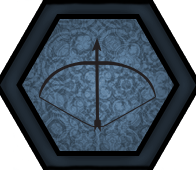
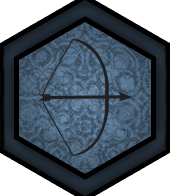
flipped the orientation the hex tiles as we discussed; the display and UI should work for the new orientation, but the game logic needs to be changed

diff --git a/Gaveldor 2/src/game/run/GameUI.java b/Gaveldor 2/src/game/run/GameUI.java
@@ -46,27 +46,27 @@ public class GameUI {
     }
     
     public static Point getTileCoords(int pixelX, int pixelY){
-        double x = (1.0 * pixelX + (Constants.TILE_WIDTH - Constants.TILE_WIDTH_SPACING)) / Constants.TILE_WIDTH_SPACING;
-        double y = 1.0 * pixelY / Constants.TILE_HEIGHT_SPACING / 2;
-        double z = -0.5 * x - y;
-               y = -0.5 * x + y;
-        int ix = (int)Math.floor(x+0.5);
+        double y = (1.0 * pixelY + (Constants.TILE_HEIGHT - Constants.TILE_HEIGHT_SPACING)) / Constants.TILE_HEIGHT_SPACING;
+        double x = 1.0 * pixelX / Constants.TILE_WIDTH_SPACING / 2;
+        double z = -0.5 * y - x;
+               x = -0.5 * y + x;
         int iy = (int)Math.floor(y+0.5);
+        int ix = (int)Math.floor(x+0.5);
         int iz = (int)Math.floor(z+0.5);
-        int s = ix+iy+iz;
+        int s = iy+ix+iz;
         if( s != 0){
-            double abs_dx = Math.abs(ix-x);
             double abs_dy = Math.abs(iy-y);
+            double abs_dx = Math.abs(ix-x);
             double abs_dz = Math.abs(iz-z);
-            if( abs_dx >= abs_dy && abs_dx >= abs_dz )
-                ix -= s;
-            else if( abs_dy >= abs_dx && abs_dy >= abs_dz )
+            if( abs_dy >= abs_dx && abs_dy >= abs_dz )
                 iy -= s;
+            else if( abs_dx >= abs_dy && abs_dx >= abs_dz )
+                ix -= s;
             else
                 iz -= s;
         }
-        ix -= 1;
         iy -= 1;
-        return new Point(ix, iy - iz);
+        ix -= 1;
+        return new Point(ix - iz, iy);
     }
 }

diff --git a/Gaveldor 2/src/util/Constants.java b/Gaveldor 2/src/util/Constants.java
@@ -18,12 +18,12 @@ public class Constants {
     public static final boolean WINDOW_FULLSCREEN = false;
     
     // the actual size of the tiles in-file
-    public static final int TILE_WIDTH = 196, TILE_HEIGHT = 170;
+    public static final int TILE_WIDTH = 170, TILE_HEIGHT = 196;
     // the perspective adjustment, given the natural height-to-width ratio of a regular hexagon
-    public static final double TILE_PERSPECTIVE_RATIO = (TILE_HEIGHT / Math.sqrt(3)) / (TILE_WIDTH / 2);
+    public static final double TILE_PERSPECTIVE_RATIO = (TILE_HEIGHT / 2) / (TILE_WIDTH / Math.sqrt(3));
     // the size to be used to get proper tile placement
-    public static final int TILE_WIDTH_SPACING = (int)(TILE_WIDTH * 3 / 4);
-    public static final int  TILE_HEIGHT_SPACING = (int) (TILE_HEIGHT * TILE_PERSPECTIVE_RATIO)/ 2;
+    public static final int  TILE_WIDTH_SPACING = (int) (TILE_WIDTH * TILE_PERSPECTIVE_RATIO / 2);
+    public static final int TILE_HEIGHT_SPACING = (int)(TILE_HEIGHT * 3 / 4);
     
     public static final int REMOTE_CONNECTION_PORT = 400;
     

diff --git a/Gaveldor 2/src/game/run/PlayerController.java b/Gaveldor 2/src/game/run/PlayerController.java
@@ -66,8 +66,8 @@ public abstract class PlayerController {
     }
 
     public void renderBoard(Graphics g) {
-        for (int i = 0; i < model.map.width; i++) {
-            for (int j = i % 2; j < model.map.height; j += 2) {
+        for (int j = 0; j < model.map.height; j++) {
+            for (int i = j % 2; i < model.map.width; i += 2) {
                 TerrainType terrain = model.map.getTerrain(i, j);
                 renderAtPosition(terrain.tile, g, i, j, 0f, 0f);
             }

diff --git a/Gaveldor 2/src/game/run/LocalPlayerController.java b/Gaveldor 2/src/game/run/LocalPlayerController.java
@@ -91,6 +91,7 @@ public class LocalPlayerController extends PlayerController {
         if (ui.getInput().isMousePressed(Input.MOUSE_LEFT_BUTTON)) {
             Point position = GameUI.getTileCoords(ui.getInput().getMouseX() + displayX, ui.getInput().getMouseY()
                     + displayY);
+            System.out.println(position);
             Piece piece = model.getPieceByPosition(position);
 
             if (ui.getInput().isKeyDown(Input.KEY_LSHIFT)) {
